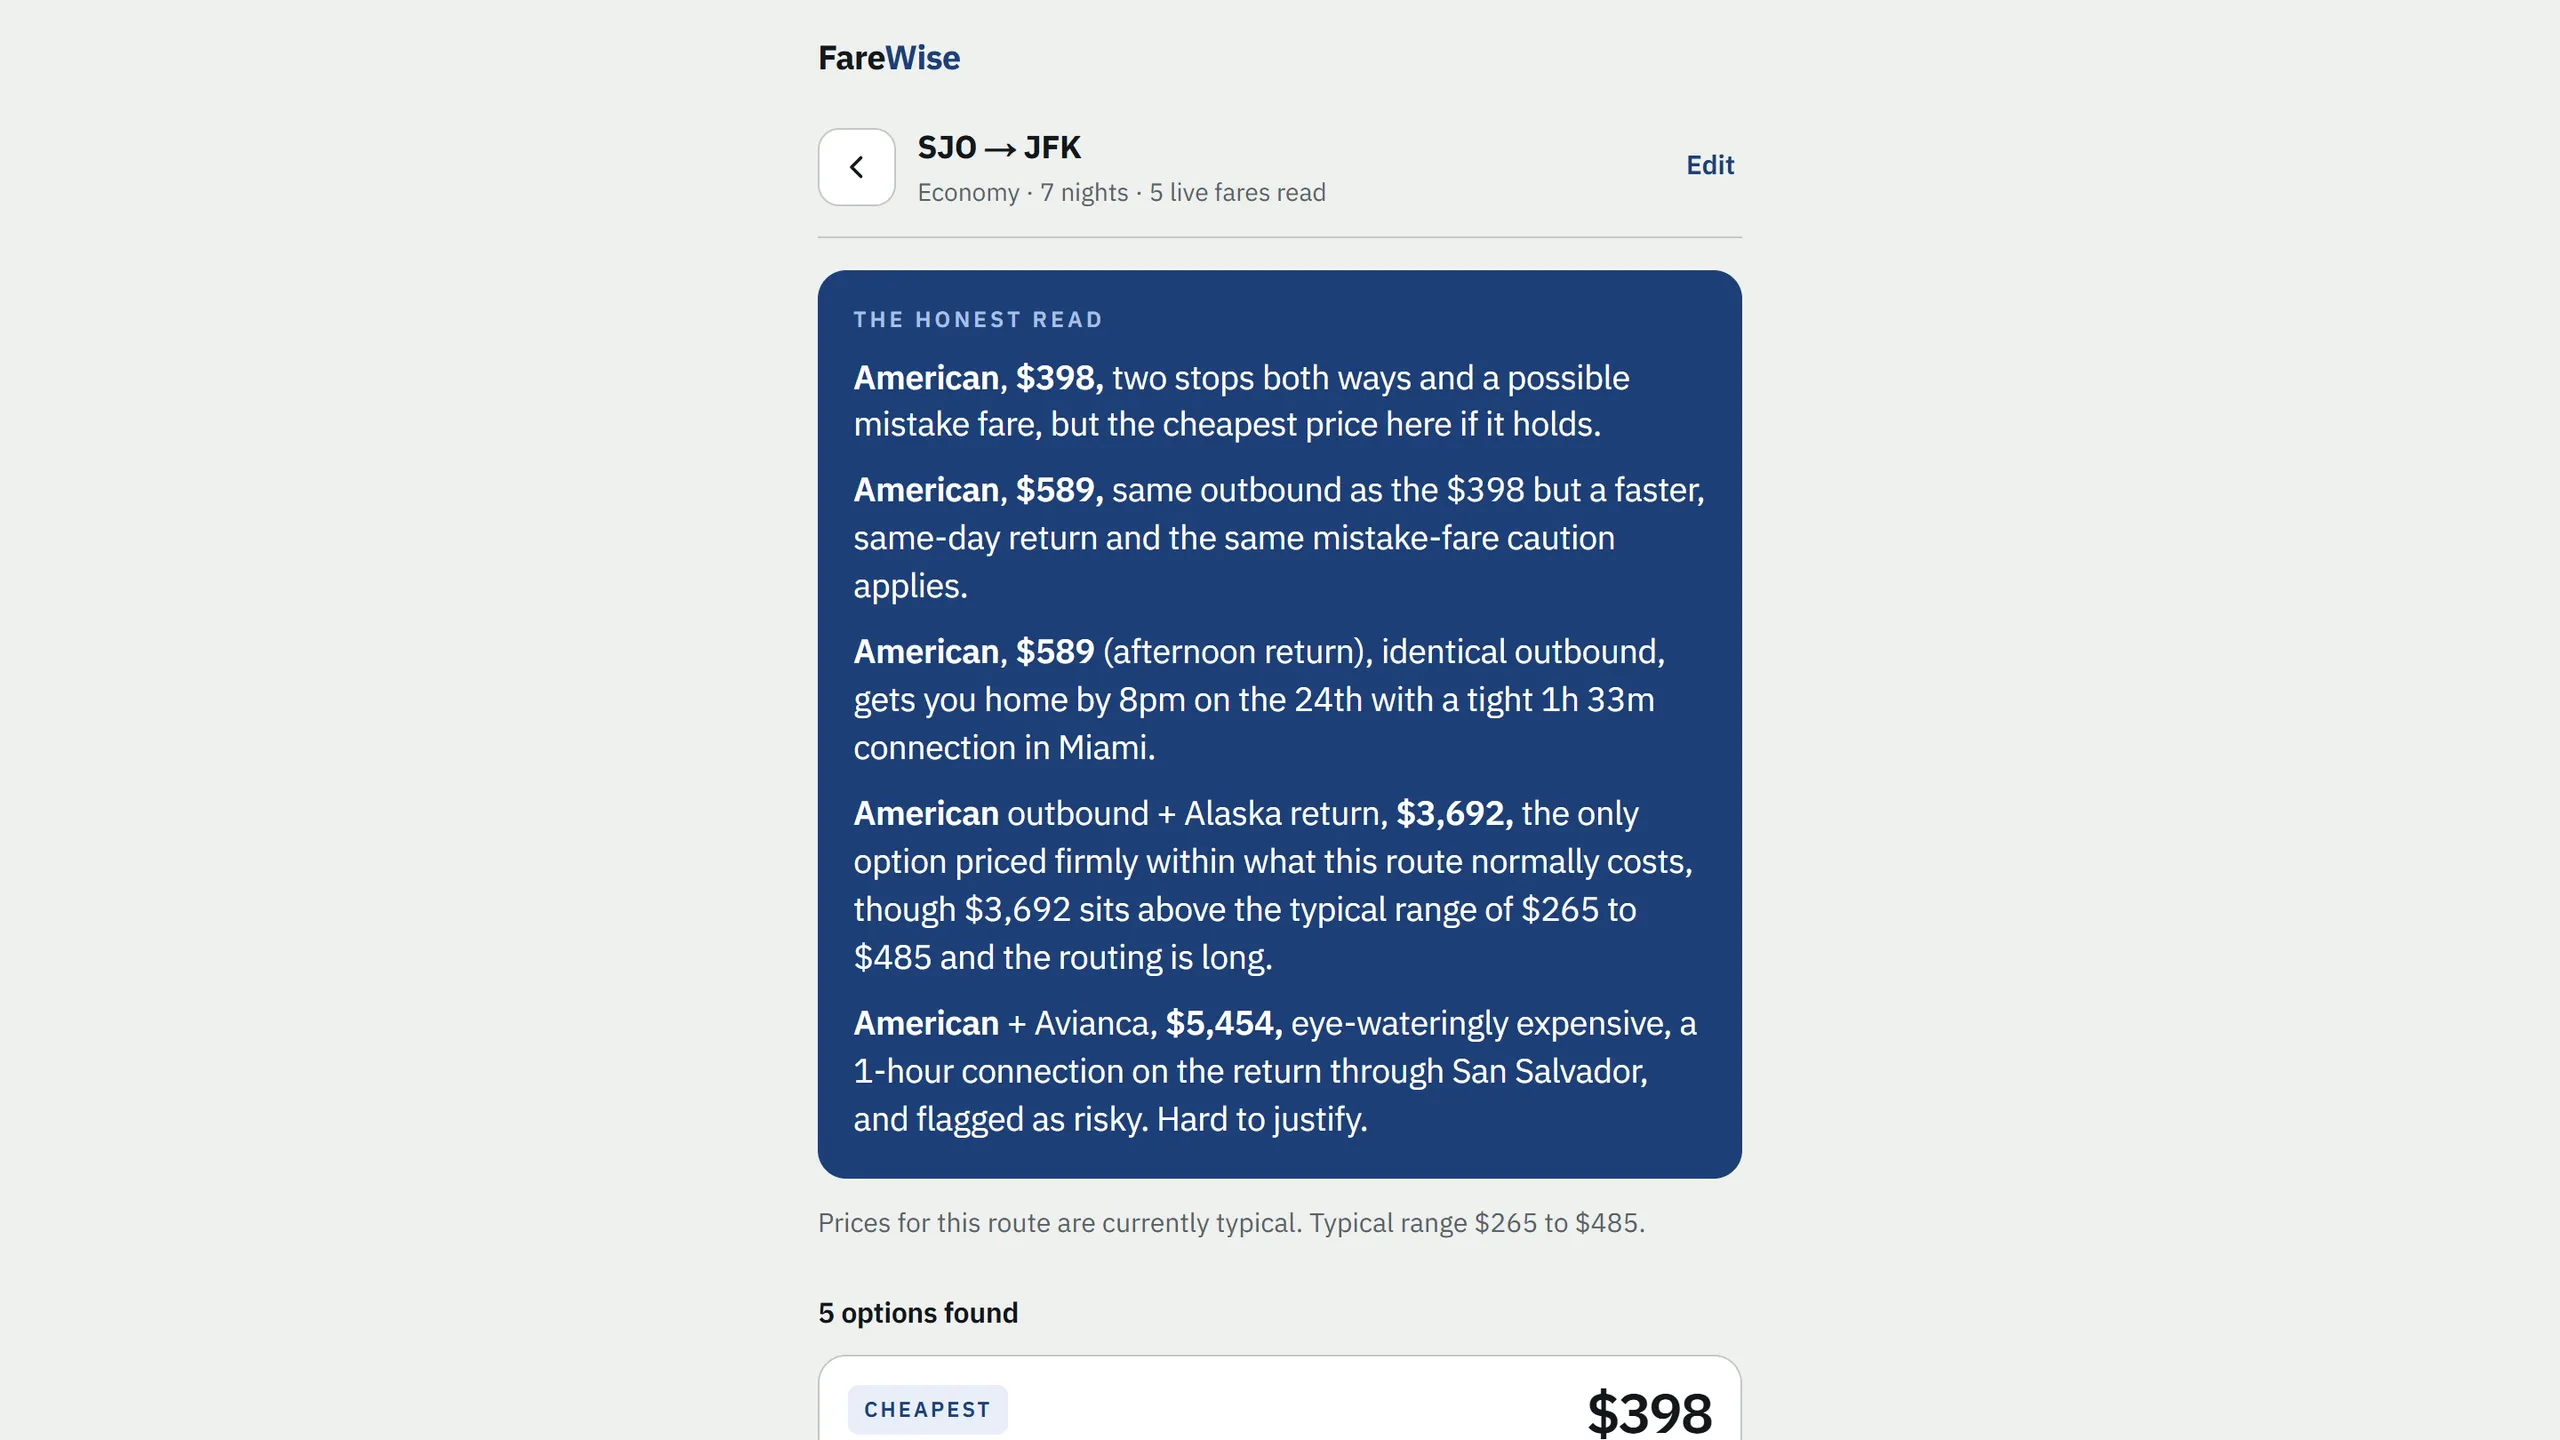
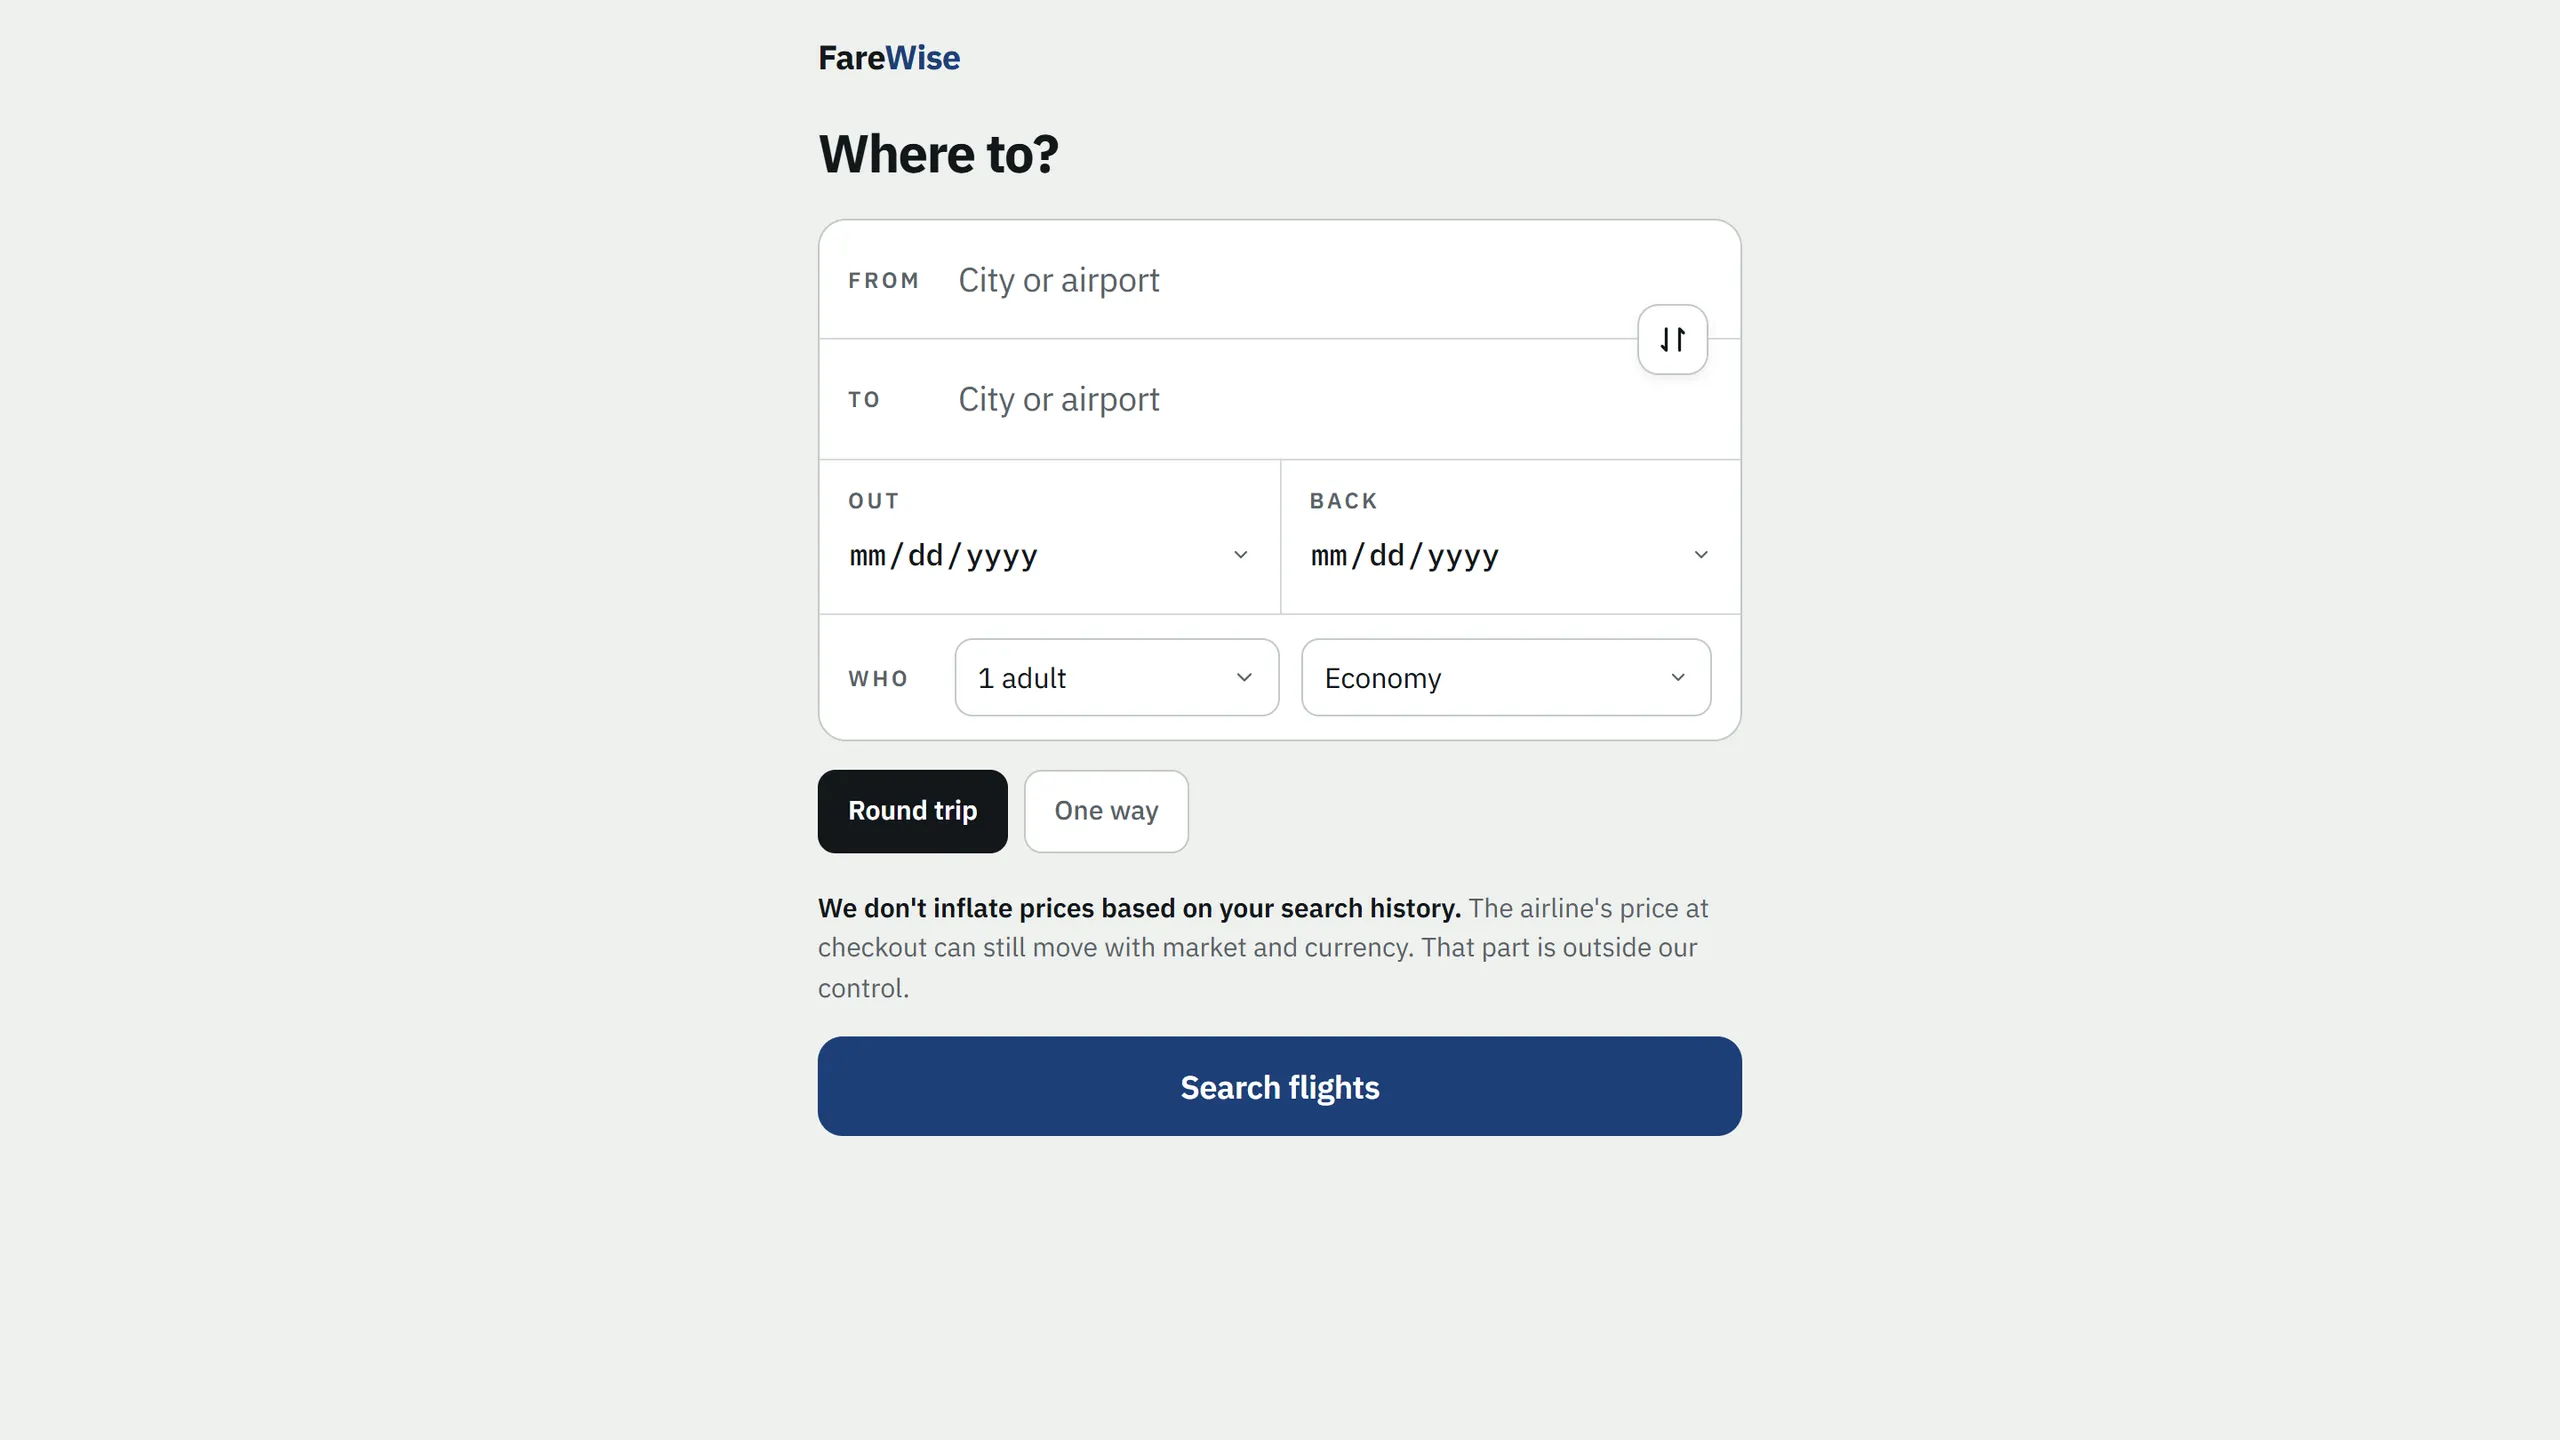
fix: orbit crop, search-first FareWise card, no repeated slides, visible arrows
- Orbit cards now hold the still's own 16/9 (a free height was cropping
  the screenshots on both desktop and mobile)
- FareWise card leads with the search form; its gallery keeps the
  results and a deeper scroll of the mistake-fare warning
- No gallery repeats its own card shot; Sana's first slide is now the
  Spanish locale, which the copy claims and nothing showed
- Gallery arrows sit centered on the image edges, 46px dark chips,
  always visible, with the counter under the caption

Claude-Session: https://claude.ai/code/session_01XjNpdT8tjRH325DLXvqnfK

diff --git a/lib/projects.ts b/lib/projects.ts
@@ -74,14 +74,14 @@ export const projects: Project[] = [
     mediaCaption: "FareWise — Live fare results",
     shots: [
       {
-        src: "/shots/farewise/g-search.webp",
-        alt: "FareWise search form with origin, destination, date and cabin fields, and a note that prices are not inflated based on search history",
-        caption: "The round-trip search form",
+        src: "/shots/farewise/g-results.webp",
+        alt: "FareWise results for San José to New York: five live fares and Claude's plain-language read of each one",
+        caption: "Live SerpApi fares with Claude's per-fare read",
       },
       {
-        src: "/shots/farewise/g-results.webp",
-        alt: "FareWise results for San José to New York: five live fares, a typical-price summary, and a warning on a suspiciously cheap fare",
-        caption: "Live SerpApi fares with Claude's per-fare read and a mistake-fare warning",
+        src: "/shots/farewise/g-results-deep.webp",
+        alt: "The cheapest fare card with route, stops, and an explicit warning that the price may be a mistake fare the airline can cancel",
+        caption: "The mistake-fare warning on a suspiciously cheap result",
       },
     ],
   },
@@ -110,11 +110,6 @@ export const projects: Project[] = [
     category: "Client · Design System · EN/DE",
     mediaCaption: "Vox — Production site",
     shots: [
-      {
-        src: "/shots/vox/g-hero.webp",
-        alt: "Leonie Dubuc home page: a large serif name treatment beside a black-and-white portrait",
-        caption: "Home, English locale",
-      },
       {
         src: "/shots/vox/g-demos.webp",
         alt: "Demos page with playable voice-over samples",
@@ -155,11 +150,6 @@ export const projects: Project[] = [
     category: "Brand · Headless Commerce · Design",
     mediaCaption: "Hollow Ronin — Drop store",
     shots: [
-      {
-        src: "/shots/hollow-ronin/g-hero.webp",
-        alt: "Hollow Ronin home: a katana under a blossom tree with the Drop 001 headline",
-        caption: "Drop 001 hero",
-      },
       {
         src: "/shots/hollow-ronin/g-shop.webp",
         alt: "Shop page: The Armory, category tiles for tees, shirts, hoodies, joggers and outerwear",
@@ -206,11 +196,6 @@ export const projects: Project[] = [
     mediaCaption: "Adrift — Discovery feed",
     shots: [
       {
-        src: "/shots/adrift/g-feed.webp",
-        alt: "Adrift home feed: New this week carousel and Today's drift grid across fashion, beauty and tech products",
-        caption: "The feed: weekly drop and daily rotation",
-      },
-      {
         src: "/shots/adrift/g-find.webp",
         alt: "Adrift product page for a wireless mouse with a direct shop link",
         caption: "Product page with a direct shop link",
@@ -249,9 +234,9 @@ export const projects: Project[] = [
     status: "anonymized",
     shots: [
       {
-        src: "/shots/sana/g-hero.webp",
-        alt: "Sana landing page: You got hurt. Sana helps you heal — and remember everything.",
-        caption: "Landing page, English locale",
+        src: "/shots/sana/g-es-hero.webp",
+        alt: "Sana landing page in Spanish: Sana, recuerda, recupérate",
+        caption: "The same page in the Spanish locale, full next-intl parity",
       },
       {
         src: "/shots/sana/g-features.webp",
@@ -291,11 +276,6 @@ export const projects: Project[] = [
     mediaCaption: "Internal tool — Confidential",
     status: "confidential",
     shots: [
-      {
-        src: "/shots/caseflow/g-client-session.webp",
-        alt: "Caseflow client session: pasted case notes parsed into a structured record with sample data",
-        caption: "Client session: pasted notes parsed into a structured record (sample data)",
-      },
       {
         src: "/shots/caseflow/g-treatment.webp",
         alt: "Treatment report tab: upload medical PDFs, treatment dates extracted into a report",

diff --git a/components/work/CaseGallery.tsx b/components/work/CaseGallery.tsx
@@ -42,36 +42,40 @@ export function CaseGallery({ title, shots, dark }: Props) {
             aria-hidden={i !== index}
           />
         ))}
+        {/* Arrows live ON the image, centered on each edge and always
+            visible — the affordance that this is a set, not one still. */}
+        {shots.length > 1 ? (
+          <>
+            <button
+              type="button"
+              className="cg-btn cg-prev"
+              onClick={() => go(-1)}
+              aria-label="Previous screen"
+            >
+              <svg width="20" height="20" viewBox="0 0 24 24" fill="none" aria-hidden="true">
+                <path d="M15 5l-7 7 7 7" stroke="currentColor" strokeWidth="2" strokeLinecap="round" strokeLinejoin="round" />
+              </svg>
+            </button>
+            <button
+              type="button"
+              className="cg-btn cg-next"
+              onClick={() => go(1)}
+              aria-label="Next screen"
+            >
+              <svg width="20" height="20" viewBox="0 0 24 24" fill="none" aria-hidden="true">
+                <path d="M9 5l7 7-7 7" stroke="currentColor" strokeWidth="2" strokeLinecap="round" strokeLinejoin="round" />
+              </svg>
+            </button>
+          </>
+        ) : null}
       </div>
       <figcaption className="cg-bar">
         <span className="cg-cap" aria-live="polite">
           {shots[index].caption}
         </span>
         {shots.length > 1 ? (
-          <span className="cg-nav">
-            <span className="cg-count">
-              {index + 1} / {shots.length}
-            </span>
-            <button
-              type="button"
-              className="cg-btn"
-              onClick={() => go(-1)}
-              aria-label="Previous screen"
-            >
-              <svg width="16" height="16" viewBox="0 0 24 24" fill="none" aria-hidden="true">
-                <path d="M15 5l-7 7 7 7" stroke="currentColor" strokeWidth="1.5" strokeLinecap="round" strokeLinejoin="round" />
-              </svg>
-            </button>
-            <button
-              type="button"
-              className="cg-btn"
-              onClick={() => go(1)}
-              aria-label="Next screen"
-            >
-              <svg width="16" height="16" viewBox="0 0 24 24" fill="none" aria-hidden="true">
-                <path d="M9 5l7 7-7 7" stroke="currentColor" strokeWidth="1.5" strokeLinecap="round" strokeLinejoin="round" />
-              </svg>
-            </button>
+          <span className="cg-count">
+            {index + 1} / {shots.length}
           </span>
         ) : null}
       </figcaption>

diff --git a/app/globals.css b/app/globals.css
@@ -251,8 +251,9 @@ footer {
   top: 50%;
   /* min() on negative numbers picks the more negative value, so the offsets are
      derived from the size rather than written twice. */
+  /* Match the still's 16/9 exactly — a free height crops the screenshot. */
   --card-w: min(58vw, 440px);
-  --card-h: min(46vh, 300px);
+  --card-h: calc(var(--card-w) * 9 / 16);
   width: var(--card-w);
   height: var(--card-h);
   margin: calc(var(--card-h) / -2) 0 0 calc(var(--card-w) / -2);
@@ -424,7 +425,8 @@ footer {
     position: relative;
     inset: auto;
     width: 100%;
-    height: min(42vh, 300px);
+    height: auto;
+    aspect-ratio: 16 / 9;
     margin: 0;
     grid-area: 1 / 1;
     transform: none !important;
@@ -1328,34 +1330,52 @@ footer {
   color: var(--muted);
   line-height: 1.5;
 }
-.cg-nav {
-  display: flex;
-  align-items: center;
-  gap: 10px;
-  flex-shrink: 0;
-}
 .cg-count {
+  flex-shrink: 0;
   font-family: var(--font-fragment), ui-monospace, monospace;
   font-size: 11px;
   letter-spacing: 0.06em;
   color: var(--muted);
 }
 .cg-btn {
+  position: absolute;
+  top: 50%;
+  transform: translateY(-50%);
+  z-index: 4;
   display: flex;
   align-items: center;
   justify-content: center;
-  width: 38px;
-  height: 38px;
+  width: 46px;
+  height: 46px;
   border-radius: 50%;
-  border: 1px solid var(--line);
-  background: none;
-  color: var(--fg);
+  border: 1px solid rgba(255, 255, 255, 0.28);
+  background: rgba(8, 9, 12, 0.72);
+  color: #fff;
   cursor: pointer;
-  transition: border-color 0.3s, color 0.3s;
+  transition: background 0.3s, border-color 0.3s, color 0.3s;
+}
+.cg-prev {
+  left: 14px;
+}
+.cg-next {
+  right: 14px;
 }
 .cg-btn:hover {
-  border-color: rgba(var(--accent-rgb), 0.6);
+  background: rgba(8, 9, 12, 0.9);
+  border-color: rgba(var(--accent-rgb), 0.7);
   color: var(--accent);
+}
+@media (max-width: 760px) {
+  .cg-btn {
+    width: 42px;
+    height: 42px;
+  }
+  .cg-prev {
+    left: 8px;
+  }
+  .cg-next {
+    right: 8px;
+  }
 }
 @media (prefers-reduced-motion: reduce) {
   .cg-img {
